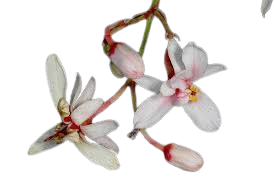
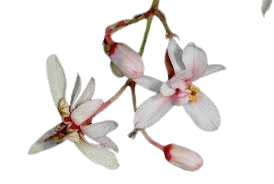
Automated update

diff --git a/beit-hamaaser/טבלת-הנצחה-מתועדת.html b/beit-hamaaser/טבלת-הנצחה-מתועדת.html
@@ -34,6 +34,8 @@ tbody tr:hover{background:#fffdf6;}
 .b-water{background:#eaf4fb;color:var(--water-deep);border:1px solid var(--water);}
 .b-purple{background:#f3e9f7;color:#5f2f74;border:1px solid var(--purple);}
 .b-gold{background:#fff4d6;color:#7a5a10;border:1px solid var(--gold);}
+.b-sea{background:#e6f4f6;color:#0c6b70;border:1px solid #1c9aa0;}
+.b-rose{background:#fbe7ef;color:#9c2d5f;border:1px solid #c9568a;}
 .quote{color:var(--ink);}
 .quote em{color:var(--fire-deep);font-style:normal;font-weight:700;}
 .srclink{display:inline-block;margin-top:6px;font-weight:700;color:var(--water-deep);font-size:.9rem;}
@@ -89,6 +91,18 @@ footer{background:var(--night);color:#9bbdd4;text-align:center;padding:34px 22px
           <td><span class="branch b-gold">שיעורי תורה וכולל</span></td>
           <td class="quote">לחם ונפל בעוטף עזה ביום הטבח. למד שלוש שנים בישיבת אלון מורה; במכתביו ביקש להיות <em>״איש עם הפנים לכלל״</em> ולתרגם ״מסירות נפש לתורה״ — לחיות את התורה.</td>
           <td><a class="srclink" href="https://www.inn.co.il/news/696897" target="_blank" rel="noopener">ערוץ 7 ←</a></td>
+        </tr>
+        <tr>
+          <td class="name">אופיר צרפתי ז״ל<small>נחטף ונרצח אחרי שחילץ חברים מנובה</small></td>
+          <td><span class="branch b-sea">ים וגלישה</span></td>
+          <td class="quote">סטודנט להנדסת חשמל, <em>אוהב ים וגלישה</em>. חבריו הנציחו אותו בקעקוע — ״תמונה שלי ושלו, עם הגלשנים, על שפת הים, כמו שאופיר הכי אהב״.</td>
+          <td><a class="srclink" href="https://www.maariv.co.il/news/israel/article-1239193" target="_blank" rel="noopener">מעריב ←</a></td>
+        </tr>
+        <tr>
+          <td class="name">נועה מרציאנו ז״ל<small>תצפיתנית, נרצחה בשבי</small></td>
+          <td><span class="branch b-rose">חסד ונתינה</span></td>
+          <td class="quote">בני משפחתה הקימו לזכרה בית קפה. תוארה: <em>״ילדה של אור, של אהבה, של שמחה, של נתינה — תמיד ראתה את החלש, תמיד חיפשה לתרום ולתת בלי שום ציפייה לקבל בחזרה״</em>.</td>
+          <td><a class="srclink" href="https://www.maariv.co.il/economy/israel/article-1310770" target="_blank" rel="noopener">מעריב ←</a></td>
         </tr>
       </tbody>
     </table>

diff --git a/beit-hamaaser/index.html b/beit-hamaaser/index.html
@@ -58,7 +58,8 @@ body{font-family:"Heebo","Segoe UI",Arial,sans-serif;color:var(--ink);background
   background:linear-gradient(transparent,rgba(6,18,31,.85));}
 .place-cap b{font-size:1.12rem;font-weight:900;display:block;}
 .place-cap span{font-size:.88rem;opacity:.92;}
-.toc-flower{width:34px;height:34px;border-radius:50%;object-fit:cover;box-shadow:var(--shadow);flex-shrink:0;border:1.5px solid var(--gold-light);}
+.toc-flower{width:38px;height:38px;object-fit:contain;flex-shrink:0;transition:transform .15s;}
+.toc-flower:hover{transform:scale(1.12);}
 @media(max-width:680px){.place-frame{flex:1 1 100%;}}
 
 /* intro */
@@ -212,6 +213,13 @@ footer{background:var(--night);color:#9bbdd4;text-align:center;padding:40px 22px
         <h3>מודל ההנצחה — ענפים</h3>
         <p>כל נשמה וענף משלה: כיצד כל נרצח מוצא מקום בתחום שאהב, והתרומה לעילוי נשמתו ממנת אותו ענף.</p>
         <span class="type">מודל הנצחה</span>
+        <span class="open">לצפייה ←</span>
+      </a>
+      <a class="card" href="טבלת-הנצחה-מתועדת.html">
+        <div class="ic">🕯️</div>
+        <h3>טבלת הנצחה מתועדת</h3>
+        <p>נשמות מהשבעה באוקטובר שתחביבן תועד ופורסם — משויכות לענפי בית המעשר, כל אחת עם ציטוט ומקור.</p>
+        <span class="type">נתונים מאומתים</span>
         <span class="open">לצפייה ←</span>
       </a>
     </div>